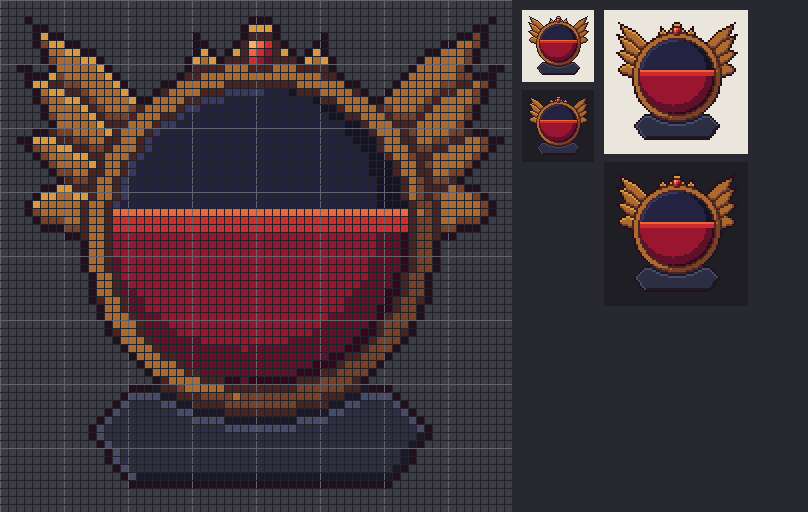
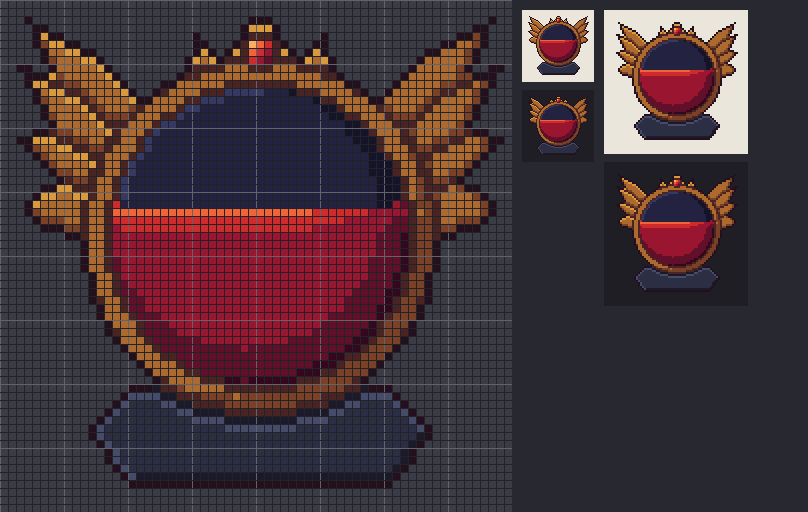
Orbe de vie : étape 5, ménisque concave et notes d'intention
Claude-Session: https://claude.ai/code/session_01499zPYjaCyxWz6oZrfTvjy

diff --git a/pixel_art/ui_orbe/INTENTION.md b/pixel_art/ui_orbe/INTENTION.md
@@ -53,3 +53,20 @@ Planches : `v04_palette_vue.png`, et `v04_palette_gris_vue.png` pour la version 
   - le liquide s'éclaircit sous le ménisque (`4`, `5`) ;
   - le vide de verre reste sombre (`p`, `q`) ;
   - une ligne de ménisque claire marque le niveau.
+
+## Étape 5 (A5-8) — Terminateur et ombres
+
+Lumière en haut à gauche (R23). Fichiers : `c05.sh`, `c05_isole.txt`, `c05_ombres.txt`, `c05b_menisque.txt` → `v05_ombres_vue.png`.
+
+- **Anneau d'or** : le terminateur passe sur la diagonale haut-droite / bas-gauche. La moitié haut-gauche monte en `d`, la moitié bas-droite descend en `b`. Le miroir de l'étape 1 est cassé ici : la lumière n'est pas symétrique.
+- **Plumes et couronne** : arête haute éclairée (`d`), arête basse dans l'ombre (`b`). L'aile droite ne reçoit que l'ombre (`bd`) : elle est du côté opposé à la lumière.
+- **Liquide** : la profondeur va de `3` à `2` puis `1` vers le fond et le bord bas-droit. Le fond reste une masse sombre, sans bandes.
+- **Ménisque** (`c05b`) : la surface n'est plus une règle plate.
+  - Elle est concave : le liquide remonte d'1 px contre le verre aux deux bords.
+  - La ligne de surface s'éteint de gauche à droite (`5 → 4 → 3`), et la lumière qui la traverse éclaire les deux rangs dessous (`4`).
+  - Correction après vue : un pixel `4` posé en x15 y24 faisait une marche isolée contre l'or. Je l'ai retiré : une seule marche suffit.
+- **Verre vide** : `q` en masse, `p` en croissant d'ombre en haut à droite, `r` sur l'épaisseur éclairée du bord haut-gauche.
+- **Rubis** : facette claire en haut à gauche, sombre en bas à droite, avec les teintes du liquide.
+- **Plaque** : biseau `j` en haut à gauche, `h` en bas à droite (B2).
+
+Encore à régler : le verre du haut est mort et plat (ce sera l'étape 8, avec le reflet), et les ailes comme la plaque restent plates.
